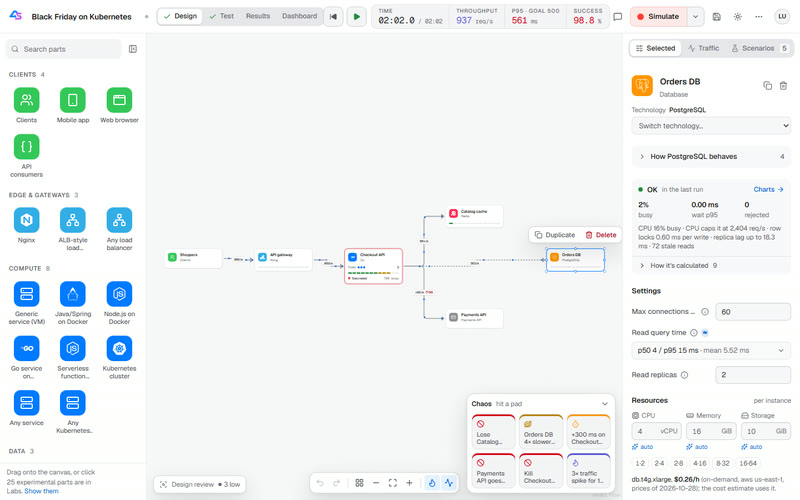
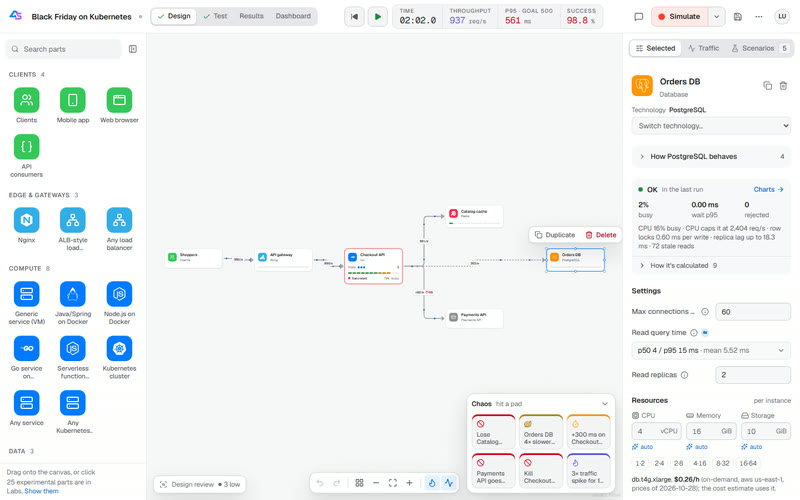
docs(readme): retake the screenshots and demo GIF with the top bar fixed
Every editor shot and the GIF show the top bar with the workspace tabs clear of the transport and
the project name whole ("Cache-aside web API (starter)" was cut off in the GIF). The trade-offs map
now plots the right-sizing template's six options, $622 to $799 a month, instead of five Black
Friday scenarios at one price; the gallery shot shows its counts again. The alt texts of those
two say what they now show.

Changed region(s): [[0.1875, 0.0, 0.75, 0.06], [0.7812, 0.0, 0.9375, 0.06]]

diff --git a/README.md b/README.md
@@ -60,7 +60,7 @@
 </tr>
 <tr>
 <td width="50%" valign="top"><img src="docs/images/scorecard.jpg" alt="Results Answer tab: No, it doesn't hold up, with p95 561 ms against a 500 ms objective, availability 98.8% against 99.5%, the primary bottleneck, a confidence note and the monthly cost" width="380"><br><b>Get a straight answer</b><br>The verdict, the objective that failed, the bottleneck, what to fix first and the bill.</td>
-<td width="50%" valign="top"><img src="docs/images/tradeoffs.jpg" alt="Results Compare tab: monthly cost plotted against p95 latency for every scenario, all at the same monthly cost, with the objective line and a table of the options" width="380"><br><b>Compare the options</b><br>Every scenario on a cost-against-latency map, then a load sweep to find where it breaks.</td>
+<td width="50%" valign="top"><img src="docs/images/tradeoffs.jpg" alt="Results Compare tab: monthly cost plotted against p95 latency for six ways to size a catalog API, from $622 to $799 a month, with the Pareto frontier, the 25 ms objective line and a table of the options; only the bigger database and the read replica meet the objective" width="380"><br><b>Compare the options</b><br>Every scenario on a cost-against-latency map, then a load sweep to find where it breaks.</td>
 </tr>
 <tr>
 <td width="50%" valign="top"><img src="docs/images/dashboard.jpg" alt="Dashboard workspace: Grafana-style panels for throughput, p95, errors, saturation and cost, with a crosshair synced across latency and queue-wait charts" width="380"><br><b>Watch it like production</b><br>A Grafana-style dashboard with per-component signals: lag, lock waits, GC pauses, 503s.</td>
@@ -68,7 +68,7 @@
 </tr>
 <tr>
 <td width="50%" valign="top"><img src="docs/images/traces.jpg" alt="Request traces: a 169 ms write on a waterfall through the gateway, the checkout service, a database query with its log flush and a slow payment call" width="380"><br><b>Follow single requests</b><br>Sampled traces through every hop, wait, lock, log flush and GC pause.</td>
-<td width="50%" valign="top"><img src="docs/images/templates.jpg" alt="Templates gallery: category filters, search and a featured Black Friday on Kubernetes template drawn as technology logo tiles" width="380"><br><b>Start from a template</b><br>25 ready-made architectures, from a cache-aside starter to Kafka, Cassandra and serverless.</td>
+<td width="50%" valign="top"><img src="docs/images/templates.jpg" alt="Templates gallery: 25 templates, 124 scenarios to compare and 40 technologies, category filters with their counts, search and a featured Black Friday on Kubernetes template drawn as technology logo tiles" width="380"><br><b>Start from a template</b><br>25 ready-made architectures, from a cache-aside starter to Kafka, Cassandra and serverless.</td>
 </tr>
 </table>
 

diff --git a/docs/features.md b/docs/features.md
@@ -130,7 +130,7 @@ StatefulSets) or Mermaid, as reviewed starting points.
   per-component drill-down, Calculations and Request traces, and the assumptions behind every
   number. A Markdown report is one click away.
 
-![Results → Compare: monthly cost against p95 for every scenario of the Black Friday template at AWS us-east-1 prices, with the p95 objective line and a table of the options; every scenario costs the same $825 a month, so they stand in one column, and every one misses the objectives](images/tradeoffs.jpg)
+![Results → Compare for the Right-size a catalog API template at AWS us-east-1 prices: monthly cost against p95 for its six sizings, from two API VMs at $622 a month and 42.8 ms to a read replica at $799 and 16.5 ms. The Pareto frontier steps down from the cheapest through the design as drawn and more database memory to the bigger database; five API VMs cost more without being faster; only the bigger database (15.3 ms, $787) and the read replica meet the 25 ms objective. A table of the options follows](images/tradeoffs.jpg)
 
 **Calculations** shows the maths behind the numbers: each formula written out, again with the run's
 own values, and the result, next to what the simulation measured (utilization, Little's law, the
@@ -224,7 +224,7 @@ read-only copy of one run's results that anyone with the link can open. The endp
 - Projects live in PostgreSQL, documents import and export as versioned JSON, and every run stores
   its input, seed, engine version and result digest so it can be re-run and verified bit for bit.
 
-![The templates gallery in the dark theme: category filters with their counts (All 25) and search, and the featured Black Friday on Kubernetes template, marked Labs, drawn as logo tiles (Shoppers, Kong API gateway, Go checkout, Redis catalog cache, PostgreSQL orders, payments API) beside its description and Built with list](images/templates.jpg)
+![The templates gallery in the dark theme: its counts (25 templates, 124 scenarios to compare, 40 technologies used), category filters with theirs (All 25, Scale 3, Data 6 and more) and search, and the featured Black Friday on Kubernetes template, marked Labs, drawn as logo tiles (Shoppers, Kong API gateway, Go checkout, Redis catalog cache, PostgreSQL orders, payments API) beside its description and Built with list](images/templates.jpg)
 
 ## Scope and limitations
 
